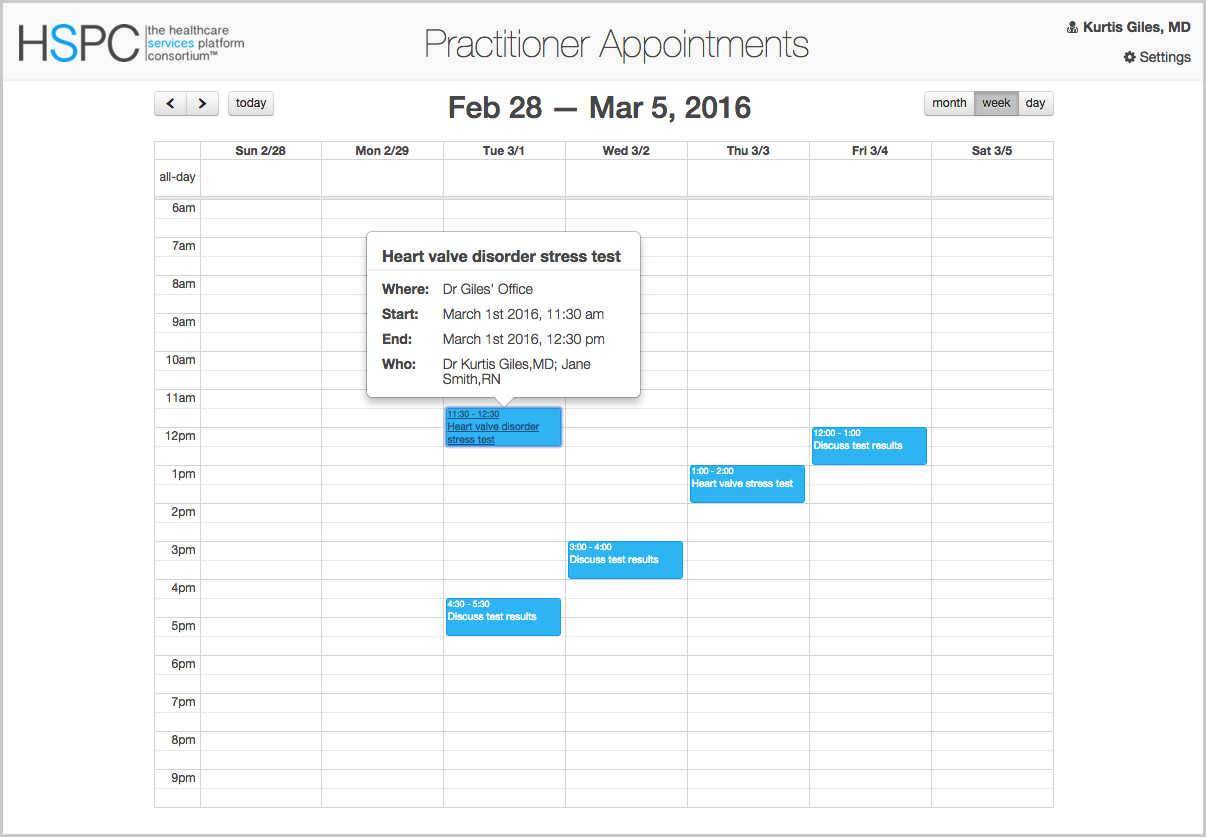
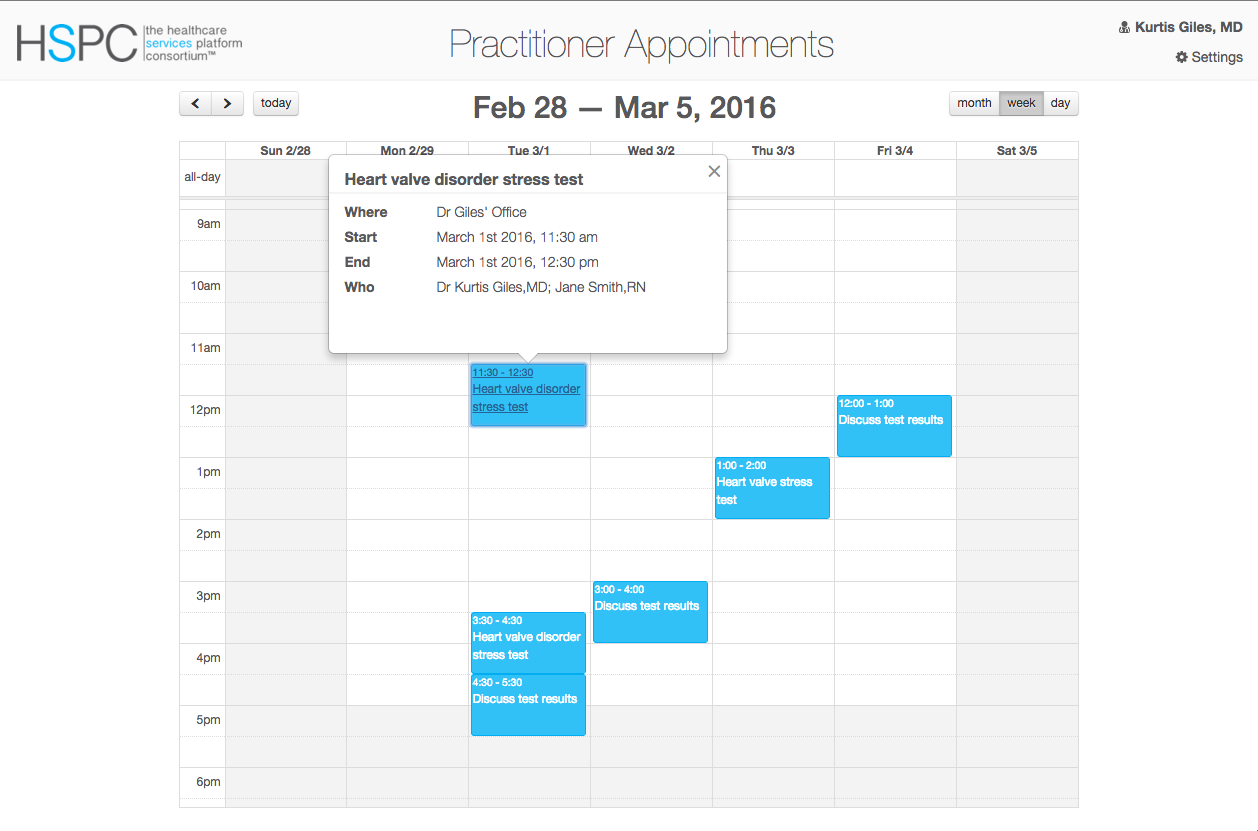
Query for participant names.

diff --git a/src/main/webapp/static/appointments/js/appointments.js b/src/main/webapp/static/appointments/js/appointments.js
@@ -66,6 +66,8 @@ initClient().then(function(){
                 document.getElementById("user-icon").className = "fa fa-user-md";
                 $('#calendar').fullCalendar( 'changeView', "agendaWeek" );
                 readAppointments({practitioner: profile.id});
+            }).fail(function(){
+                deferred.reject();
             });
     }
 });
@@ -75,10 +77,69 @@ function readAppointments(query)  {
     queryResourceInstances("Appointment", query)
         .done(function(resourceResults){
             resourceResults.forEach(function(resource) {
-                appointments.push(resource);
+                getParticipants(resource)
+                    .done(function(participants){
+                        resource.participants = participants;
+                        appointments.push(resource);
+                        buildCalendarEvents();
+                    }).fail(function(){
+                        deferred.reject();
+                    });
             });
-            buildCalendarEvents();
+        }).fail(function(){
+            deferred.reject();
         });
+}
+
+function getParticipants(resource)  {
+    var participantList = [];
+    var deferred = $.Deferred();
+
+    resource.participant.forEach(function(participant) {
+
+        var segments = participant.actor.reference.split("/");
+        participantList.push({
+            resourceType: segments[segments.length - 2],
+            id: segments[segments.length - 1]
+        });
+    });
+    getParticipant(participantList, 0).done(function(participants){
+        deferred.resolve(participants);
+    }).fail(function(){
+            deferred.reject();
+        });
+    return deferred;
+}
+
+function getParticipant(participantList, index)  {
+    var participants = [];
+    var deferred = $.Deferred();
+    $.when(currentClient.api.read({type: participantList[index].resourceType, id: participantList[index].id}))
+        .done(function(participantResult){
+            if (participantList.length > index + 1) {
+                getParticipant(participantList, ++index).done(function(nestedParticipants){
+                    participants = participants.concat(nestedParticipants);
+                    participants.push({
+                        resourceType: participantResult.data.resourceType,
+                        id: participantResult.data.id,
+                        name: nameGivenFamily(participantResult.data)
+                    });
+                    deferred.resolve(participants);
+                }).fail(function(){
+                        deferred.reject();
+                    });
+            } else {
+                participants.push({
+                    resourceType: participantResult.data.resourceType,
+                    id: participantResult.data.id,
+                    name: nameGivenFamily(participantResult.data)
+                });
+                deferred.resolve(participants);
+            }
+        }).fail(function(){
+            deferred.reject();
+        });
+    return deferred;
 }
 
 function settings(choosen, customUrl){
@@ -170,12 +231,45 @@ function buildCalendarEvents(){
             "color": selectedEndpoint.color,
             "title":(appointment.description!== undefined) ? appointment.description : appointment.type.text,
             "start": new Date(appointment.start),
-            "location": "Dr Giles' Office",
-            "who": "Dr Kurtis Giles,MD; Jane Smith,RN",
+            "location": (mockLocation(appointment) !== undefined) ? mockLocation(appointment) : "",
+            "who": buildAttendeesList(appointment),
             "end": (appointment.end !== undefined) ? new Date(appointment.end) : new Date(determineEndtime(appointment.start, appointment.minutesDuration))
         })
     });
     updateCalendarEvents();
+}
+
+function buildAttendeesList(appointment) {
+    var attendees = "";
+    appointment.participants.forEach(function(participant){
+        if (participant.resourceType === "Patient" || participant.resourceType === "Practitioner"){
+            if (attendees !== "") {
+                attendees = attendees + "; ";
+            }
+            attendees = attendees + participant.name;
+        }
+    });
+    return attendees;
+}
+
+function mockLocation(appointment) {
+    var location = "";
+    var practitioner = "";
+    appointment.participants.forEach(function(participant){
+        if (participant.resourceType === "Practitioner"){
+            practitioner = participant;
+        } else if (participant.resourceType === "Location") {
+            location = participant;
+        }
+    });
+
+    if (location !== "") {
+        return location;
+    } else if (practitioner !== "") {
+        return "Office of " + practitioner.name;
+    }
+
+    return undefined;
 }
 
 function initializeCalendar() {
@@ -295,6 +389,8 @@ function queryResourceInstances(resource, searchValue, tokens, sort, count) {
                 });
             }
             deferred.resolve(resourceResults, resourceSearchResult);
+        }).fail(function(){
+            deferred.reject();
         });
     return deferred;
 }
@@ -341,15 +437,8 @@ function getFhirProfileUser() {
             user.name = nameGivenFamily(userResult.data);
             user.id  = userResult.data.id;
             deferred.resolve(user);
-        });
-    return deferred;
-}
-
-function getResourceByReference(resourceType, resourceId){
-    var deferred = $.Deferred();
-    $.when(currentClient.api.read({type: resourceType, id: resourceId}))
-        .done(function(referenceResult){
-            deferred.resolve(referenceResult);
+        }).fail(function(){
+            deferred.reject();
         });
     return deferred;
 }

diff --git a/src/main/webapp/static/appointments/css/app.css b/src/main/webapp/static/appointments/css/app.css
@@ -1014,7 +1014,7 @@ div.modal_cover {
     z-index: 9999;
     max-width: 500px;
     min-width: 400px;
-    min-height: 200px;
+    min-height: 160px;
 }
 
 .event-title-box {
